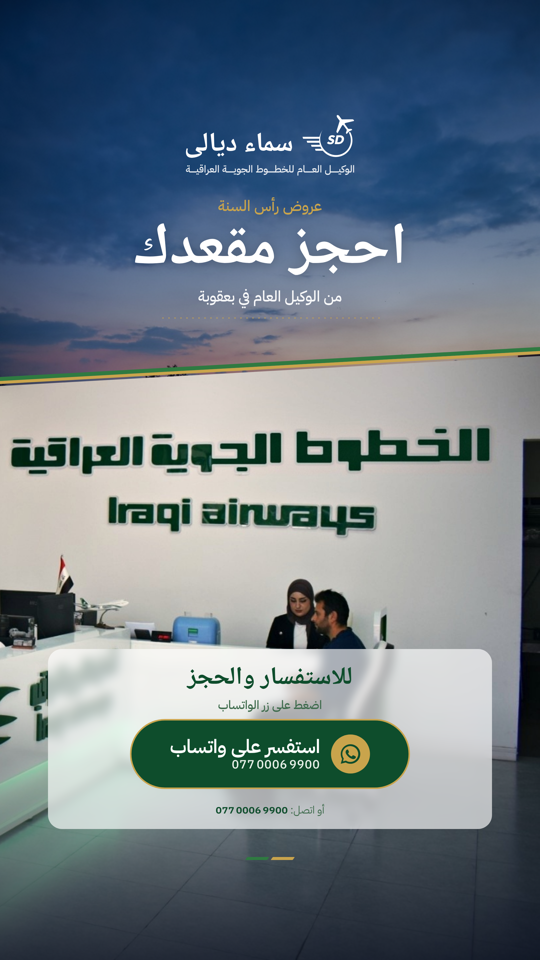
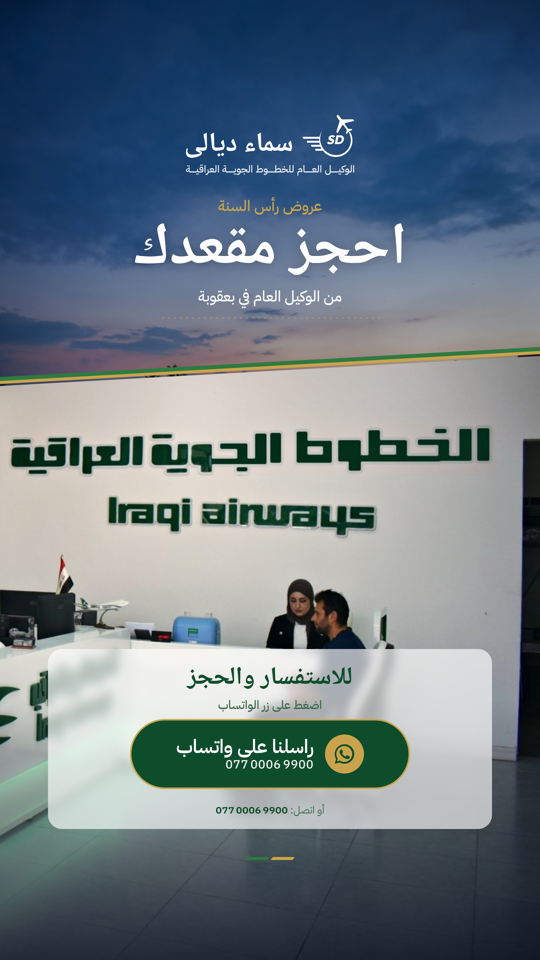
ملصق الواتساب: راسلنا على واتساب
Claude-Session: https://claude.ai/code/session_01EprWPUJDuKvYHn821imCPv

Changed region(s): [[0.3259, 0.75, 0.6815, 0.8125]]

diff --git a/09-التصاميم/ستوري الختام - عروض رأس السنة/ملصق واتساب.html b/09-التصاميم/ستوري الختام - عروض رأس السنة/ملصق واتساب.html
@@ -14,7 +14,7 @@ html,body{margin:0;width:560px;height:140px;background:transparent}
 </style></head><body>
 <div class="btn">
   <div class="ic"><svg viewBox="0 0 32 32" fill="#0E4D2C"><path d="M16 3a13 13 0 0 0-11.2 19.6L3 29l6.6-1.7A13 13 0 1 0 16 3zm0 23.6c-2 0-4-.5-5.7-1.6l-.4-.2-3.9 1 1-3.8-.3-.4A10.6 10.6 0 1 1 16 26.6zm5.8-7.9c-.3-.2-1.9-.9-2.2-1-.3-.1-.5-.2-.7.2l-1 1.2c-.2.2-.4.2-.7.1a8.7 8.7 0 0 1-4.3-3.8c-.3-.6.3-.5 1-1.7.1-.2 0-.4 0-.6l-1-2.4c-.3-.6-.5-.5-.7-.5h-.6c-.2 0-.6.1-.9.4-.3.3-1.2 1.1-1.2 2.8s1.2 3.2 1.4 3.5c.2.2 2.4 3.6 5.8 5 2.1.9 3 1 4 .8.7-.1 1.9-.8 2.2-1.6.3-.8.3-1.4.2-1.6-.1-.1-.3-.2-.6-.3z"/></svg></div>
-  <div class="t"><b>استفسر على واتساب</b><span>077 0006 9900</span></div>
+  <div class="t"><b>راسلنا على واتساب</b><span>077 0006 9900</span></div>
 </div>
 <script>document.fonts.ready.then(()=>{document.body.dataset.ready='1'})</script>
 </body></html>
